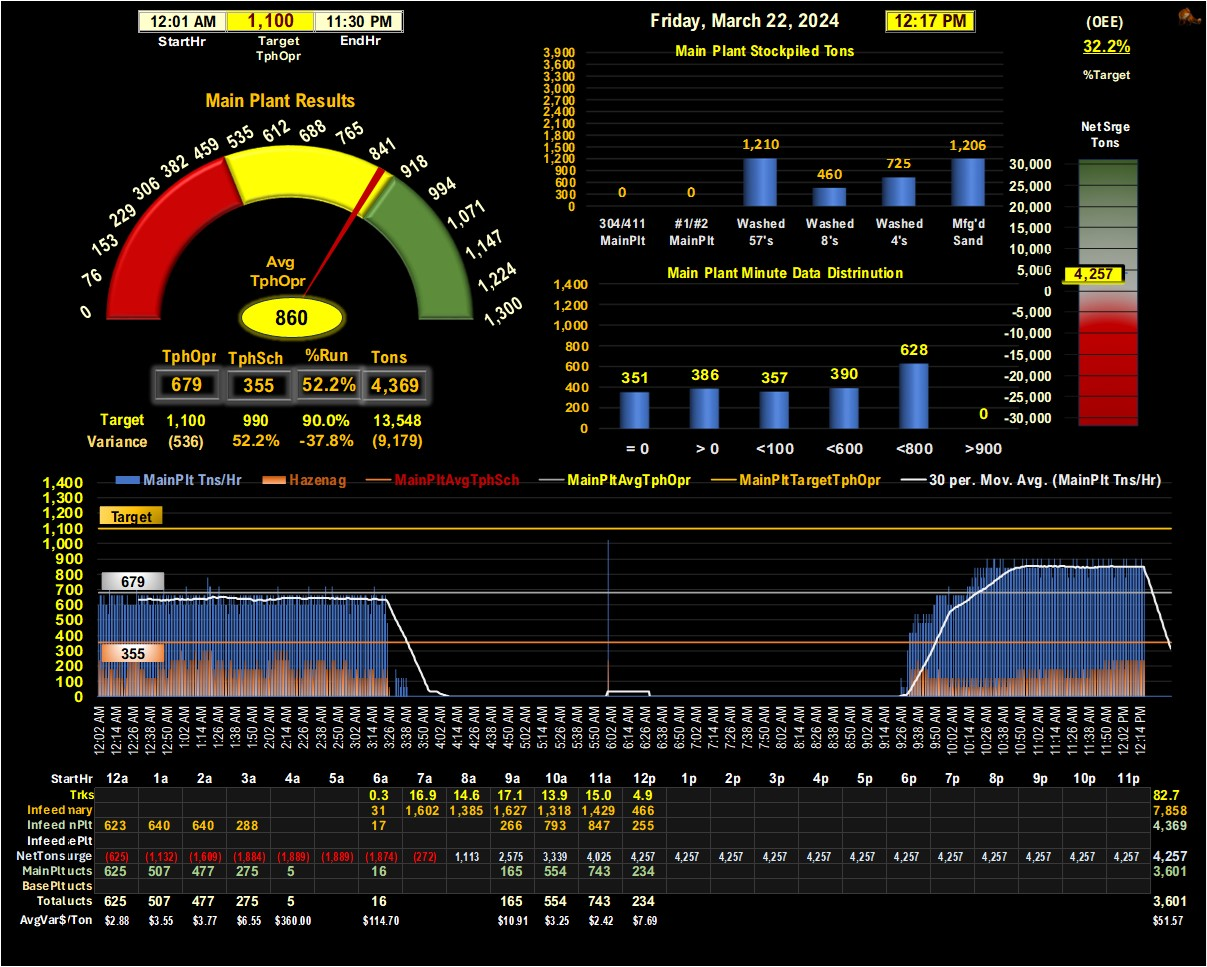
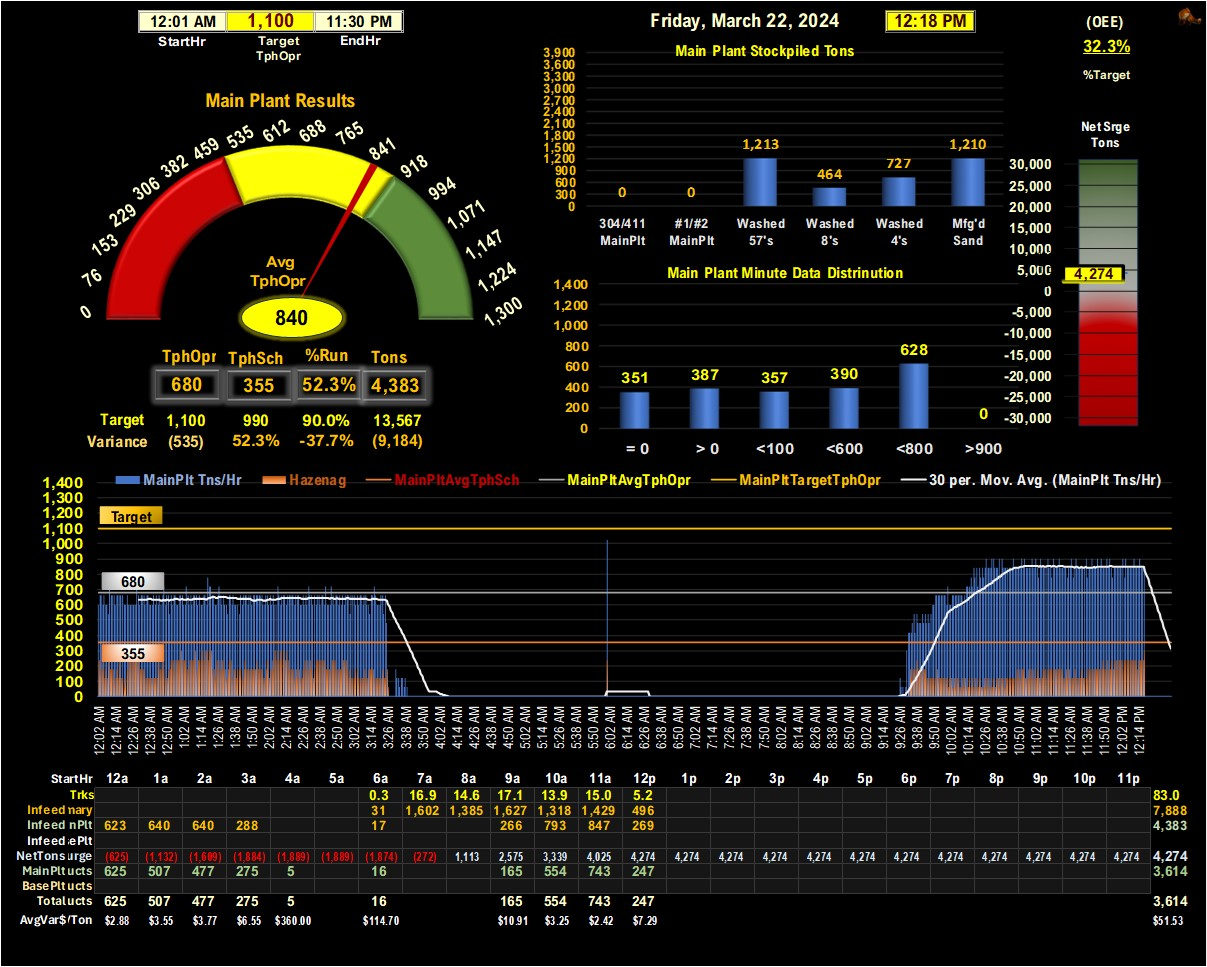
new commit

diff --git a/pyprigitupdater.py b/pyprigitupdater.py
@@ -17,7 +17,7 @@ def main():
       #  time.sleep(60)
         
         run_batch_file_silently(batch_file_path2)
-        time.sleep(60)
+        time.sleep(30)
 
 if __name__ == "__main__":
     main()
